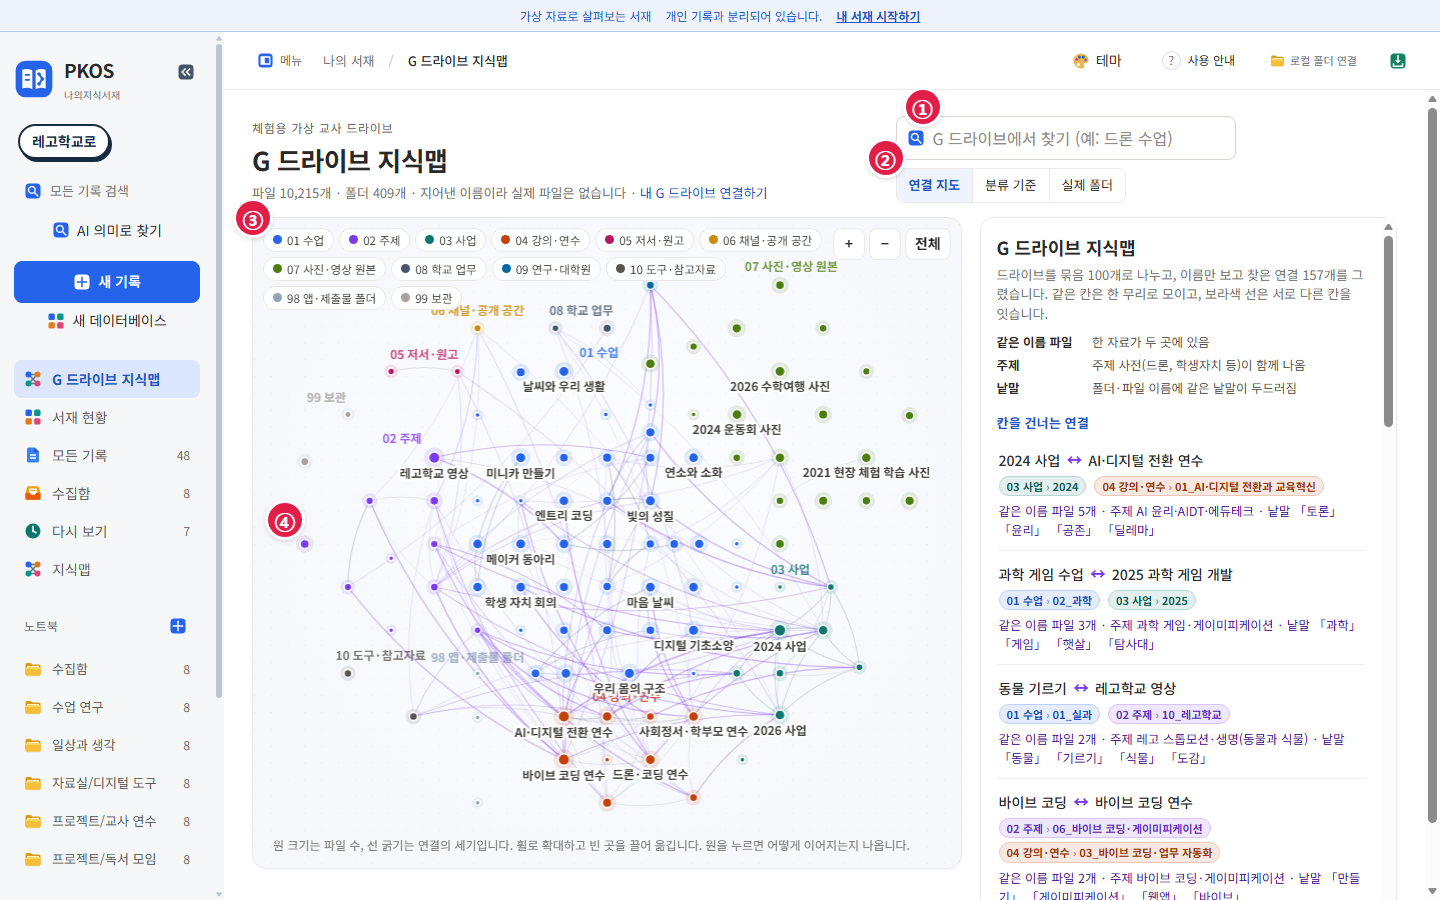
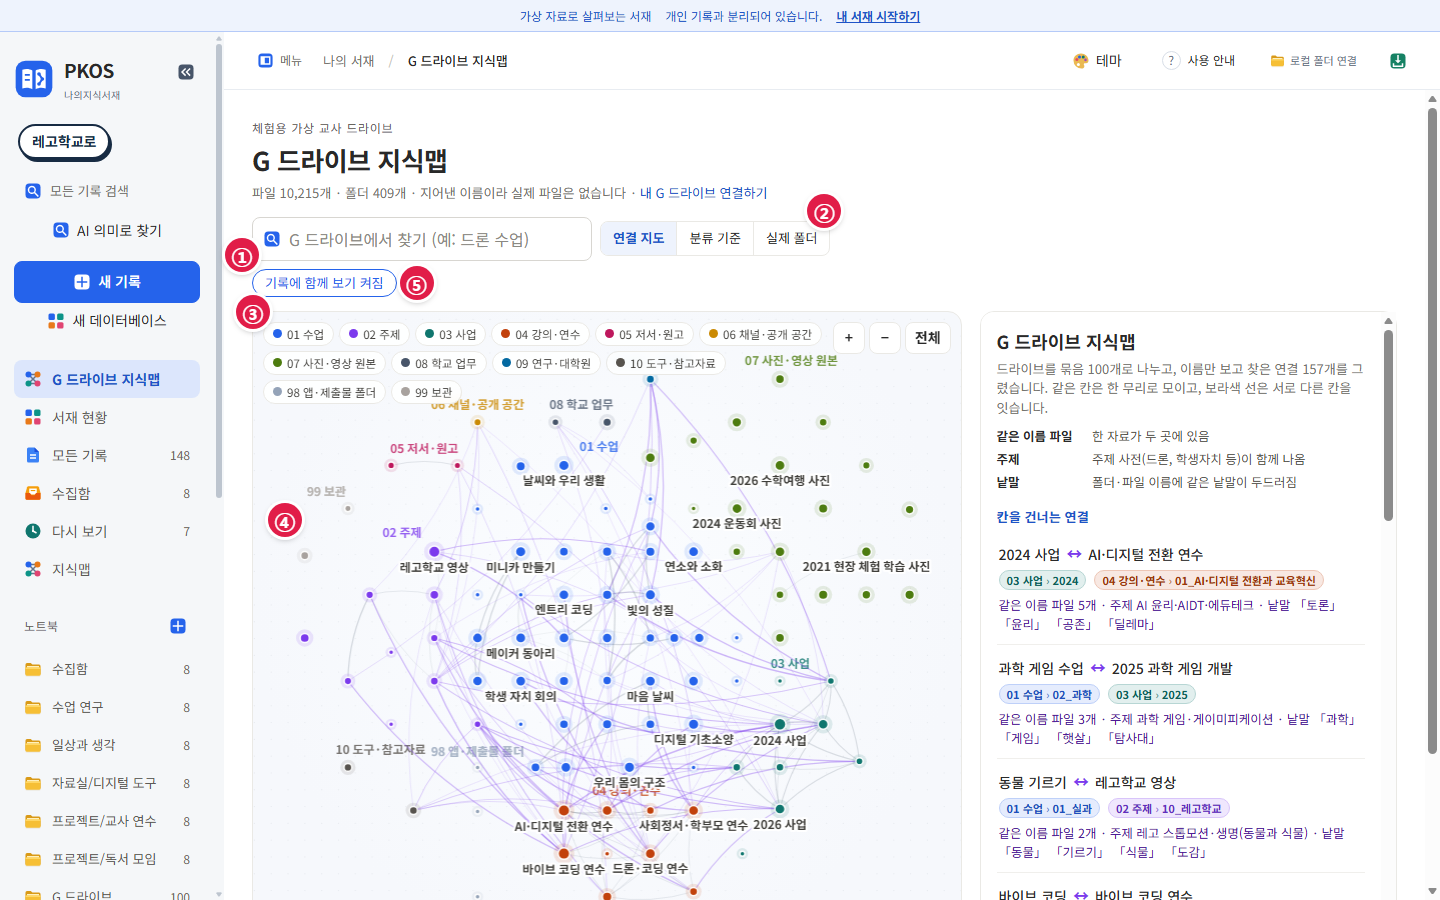
설명서: G 드라이브 묶음 카드 화면 사진과 「기록에 함께 보기」 단추
- 사진 c1(묶음 카드), c3(기록 찾기로 파일 이름 찾기), c2(서재 현황) 더하고 d1~d5를 단추가 보이게 다시 찍음
- 「기록에 함께 보기」 단추를 알약 모양 단추로(글자 링크처럼 보이던 것)

diff --git a/manual/index.html b/manual/index.html
@@ -247,7 +247,7 @@ blockquote{margin:14px 0 22px;padding:12px 16px;background:var(--brand-soft);bor
 
 <figure><a href="img/d1-drive-graph.png" target="_blank" rel="noopener"><img src="img/d1-drive-graph.png" alt="가상 교사 드라이브의 연결 지도" width="1440" height="900" loading="lazy"></a><figcaption>가상 교사 드라이브의 연결 지도</figcaption></figure>
 
-<ul class="legend"><li><b>①</b><span>찾기 칸: 낱말을 넣으면 이름이 맞는 묶음만 밝게 남고 오른쪽에 찾은 파일·폴더가 나옵니다.</span></li><li><b>②</b><span>보기 단추: 「연결 지도」, 칸별 원형 지도인 「분류 기준」, 폴더 모양 그대로인 「실제 폴더」.</span></li><li><b>③</b><span>칸 범례: 누르면 그 칸의 원을 숨기거나 다시 보입니다.</span></li><li><b>④</b><span>원 하나가 뜻이 통하는 폴더 묶음입니다. 원 크기는 파일 수, 선 굵기는 연결의 세기입니다. 같은 칸끼리 무리를 짓고, 칸을 건너는 연결은 보라색입니다. 휠로 확대하고 빈 곳을 끌어 옮깁니다.</span></li></ul>
+<ul class="legend"><li><b>①</b><span>찾기 칸: 낱말을 넣으면 이름이 맞는 묶음만 밝게 남고 오른쪽에 찾은 파일·폴더가 나옵니다.</span></li><li><b>②</b><span>보기 단추: 「연결 지도」, 칸별 원형 지도인 「분류 기준」, 폴더 모양 그대로인 「실제 폴더」.</span></li><li><b>③</b><span>칸 범례: 누르면 그 칸의 원을 숨기거나 다시 보입니다.</span></li><li><b>④</b><span>원 하나가 뜻이 통하는 폴더 묶음입니다. 원 크기는 파일 수, 선 굵기는 연결의 세기입니다. 같은 칸끼리 무리를 짓고, 칸을 건너는 연결은 보라색입니다. 휠로 확대하고 빈 곳을 끌어 옮깁니다.</span></li><li><b>⑤</b><span>「기록에 함께 보기」: 묶음 카드를 모든 기록·서재 현황·지식맵·기록 찾기에 함께 보일지 켜고 끕니다(아래 「기록에 함께 보기」).</span></li></ul>
 
 <h3 id="이어진-이유-읽기">이어진 이유 읽기</h3>
 
@@ -264,6 +264,18 @@ blockquote{margin:14px 0 22px;padding:12px 16px;background:var(--brand-soft);bor
 <h3 id="기록에-함께-보기">기록에 함께 보기</h3>
 
 <p>지도 위 「기록에 함께 보기」가 켜져 있으면 묶음마다 읽기 전용 카드가 생겨 「모든 기록」, 「서재 현황」, 「지식맵」, 기록 찾기에 함께 나옵니다. 왼쪽 노트북 「G 드라이브」 아래에 칸별로 모이고, 카드에는 칸·주제 태그, 이어진 묶음과 이유, 들어 있는 파일 이름이 적혀 있습니다. 이어진 묶음 이름을 누르면 그 카드로 넘어가고, 「지식맵에서 보기」를 누르면 G 드라이브 지식맵에서 그 폴더를 엽니다. 기록 찾기에 파일 이름을 넣으면 그 파일이 든 묶음이 기록처럼 나옵니다.</p>
+
+<figure><a href="img/c1-drive-card.png" target="_blank" rel="noopener"><img src="img/c1-drive-card.png" alt="드론 동아리 묶음 카드를 연 화면" width="1440" height="900" loading="lazy"></a><figcaption>「모든 기록」에서 「드론 동아리」 묶음 카드를 연 화면</figcaption></figure>
+
+<ul class="legend"><li><b>①</b><span>묶음 카드 머리: 「지식맵에서 보기」, 「경로 복사」, 「드라이브에서 찾기」로 원본 폴더에 갑니다.</span></li><li><b>②</b><span>노트북은 「G 드라이브 › 01 수업」처럼 칸입니다. 왼쪽 노트북 「G 드라이브」를 누르면 칸별로 모아 봅니다.</span></li><li><b>③</b><span>이어진 자료: 묶음 이름을 누르면 그 카드로 넘어가고, 줄마다 이어진 이유가 적혀 있습니다.</span></li></ul>
+
+<figure><a href="img/c3-drive-search.png" target="_blank" rel="noopener"><img src="img/c3-drive-search.png" alt="기록 찾기에 안전 수칙을 넣은 화면" width="1440" height="900" loading="lazy"></a><figcaption>기록 찾기에 파일 이름의 낱말 「안전 수칙」을 넣은 화면</figcaption></figure>
+
+<ul class="legend"><li><b>①</b><span>기록 찾기 칸: 제목, 본문, 태그와 함께 묶음 카드에 적힌 파일 이름까지 찾습니다.</span></li><li><b>②</b><span>찾은 묶음 카드: 그 파일이 든 수업, 사업, 연수 폴더가 한꺼번에 나옵니다. 목록 아래에는 G 드라이브의 파일 하나하나도 함께 나옵니다.</span></li><li><b>③</b><span>찾은 기록 요약: 종류·연도·주제별 수를 보고 「AI에게 건네기」로 질문과 함께 복사합니다.</span></li></ul>
+
+<figure><a href="img/c2-drive-overview.png" target="_blank" rel="noopener"><img src="img/c2-drive-overview.png" alt="서재 현황에 G 드라이브 묶음 수가 나온 화면" width="1440" height="900" loading="lazy"></a><figcaption>서재 현황</figcaption></figure>
+
+<ul class="legend"><li><b>①</b><span>「G 드라이브 묶음」 수입니다. 연도별 활동에도 직접 쓴 기록과 나란히 나옵니다. 숫자를 누르면 그 묶음들이 목록에 나옵니다.</span></li></ul>
 
 <p>카드는 고칠 수 없습니다. 생각을 덧붙이려면 「새 기록」에 쓰고 본문에 <code>[[묶음 이름]]</code>을 적어 이어 둡니다. 카드는 열 때마다 드라이브 지도에서 다시 만들기 때문에 백업 파일, 로컬 폴더 저장, 구글 동기화, 웹 공유에는 들어가지 않습니다.</p>
 

diff --git a/drive-map.css b/drive-map.css
@@ -118,4 +118,5 @@
 .drive-card-banner p{margin:0 0 8px;font-size:14px;line-height:1.6;color:#45443f;word-break:keep-all;text-wrap:pretty}
 .drive-card-banner .drive-acts{display:flex;flex-wrap:wrap;gap:6px}
 .drive-card-banner .drive-acts button{font-size:13px;padding:5px 10px;border:1px solid var(--line);border-radius:8px;background:#fff}
+.drive-cards-toggle{display:inline-flex;align-items:center;width:auto;flex:none;border:1px solid var(--line);border-radius:999px;padding:4px 12px;background:#fff;font-size:13px}
 .drive-cards-toggle[aria-pressed=true]{color:var(--accent,#2563eb);border-color:currentColor}
